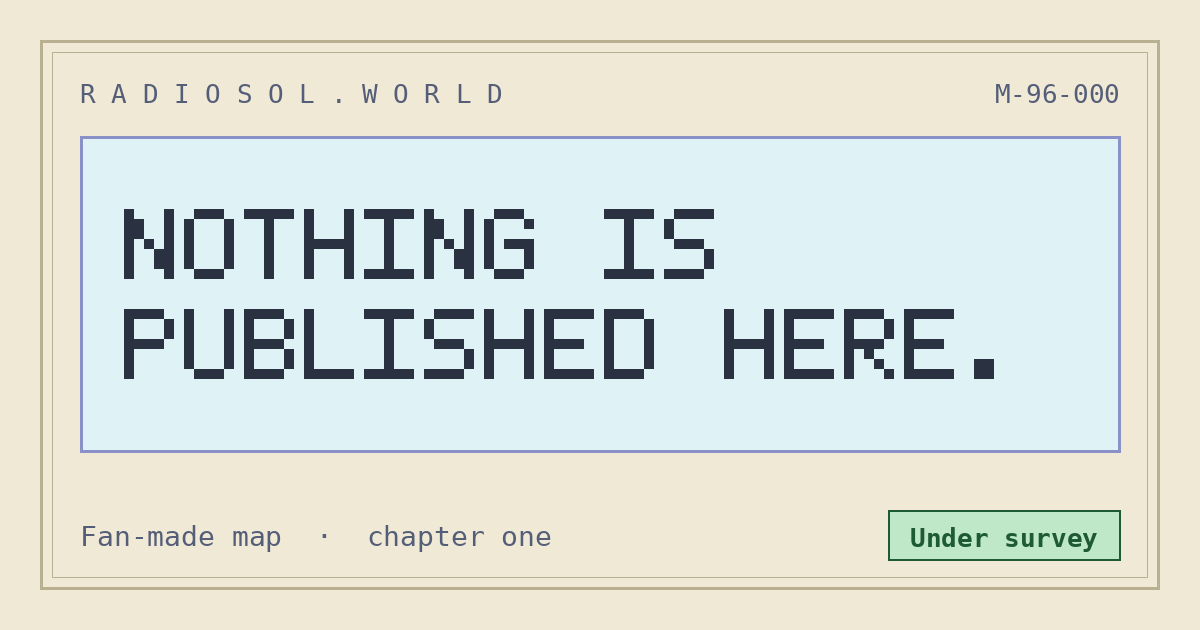
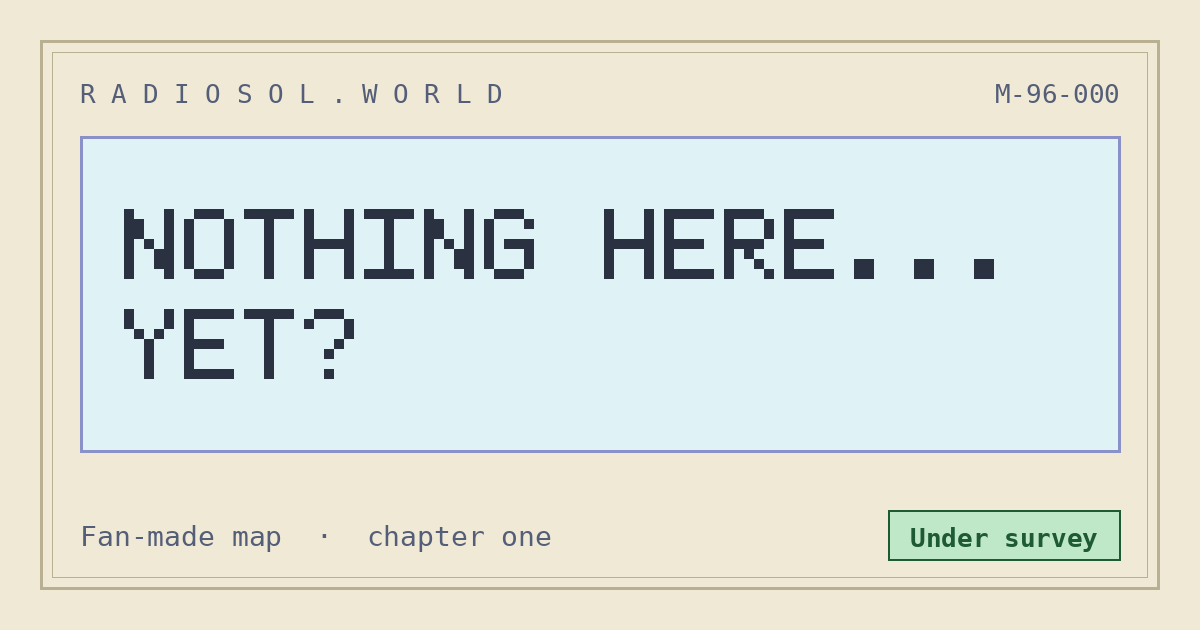
holding: adopt the design reference sizing and placement
Not a few values — a spacing system. The background now RESOLVES, falling
from periwinkle to near-white at the foot instead of holding one saturation,
which is most of why the reference reads as airy and ours read as a solid
block with a card stuck to it. The card gains the halo-ring-then-soft-drop
shadow in place of the hard offset that pinned it down like a sticker, and
main gets genuinely generous fluid padding.

Placement: the "remain calm" aside no longer floats up beside the headline
where it competed for the eye and its ragged left edge read as an accident.
It now sits baseline-aligned with the last bullet, as a marginal note on the
list, which is what it is. The list uses a flex column with gap so the final
item has no phantom padding to break that alignment.

Layout is breakpoint-free: flex 999 1 420px / 1 1 260px wrap on their own
when the bases stop fitting, replacing a 760px media query that was a guess
at where that happens.

The ticker goes fluid — nowrap plus a fixed 10.5px and .1em tracking ran it
past the card edge on a phone and clipped it mid-word.

og.png now echoes the page headline. It said "NOTHING IS PUBLISHED HERE."
while the page said "Nothing here... yet?", so the link preview promised a
different page from the one it opened. Added Y and ? to the 5x7 face.

Changed region(s): [[0.0925, 0.4825, 0.555, 0.6032], [0.4933, 0.3317, 0.8325, 0.4524], [0.5858, 0.4825, 0.8325, 0.6032]]

diff --git a/index.html b/index.html
@@ -49,13 +49,19 @@
   --frame:#8A91C9; --rule:#B9B092;
   --warn:#E06A52; --mint:#BFE8C8; --mint-ink:#1E5A34;
   --band-bg:#241F14; --band-ink:#E8E3D6;
+  --mist:#EEF2F6;                            /* the gradient's near-white foot */
 }
 *{box-sizing:border-box}
+/* The gradient RESOLVES rather than sitting at one saturation. Ours held
+   periwinkle the whole way down, which made the page feel like a solid block
+   with a card stuck on it; falling to near-white at the foot is what makes
+   the card read as floating, and it is most of the difference the designer's
+   version has over ours. */
 body{
   margin:0; min-height:100dvh; display:flex; flex-direction:column;
   overflow-x:hidden;        /* the eyes are position:fixed off both margins */
-  background:linear-gradient(176deg, var(--sky2), var(--sky) 62%);
-  font:400 14px/1.6 var(--font-ui); color:var(--ink);
+  background:linear-gradient(180deg, var(--sky) 0%, var(--sky2) 45%, var(--mist) 100%);
+  font:400 15px/1.6 var(--font-ui); color:var(--ink);
 }
 /* BANNER: stays paper, static, undamaged. The plain-language rule outranks
    the joke — someone who has never seen the game must read this as a real
@@ -75,12 +81,17 @@ body{
    mid-sentence. minmax(0,1fr) makes the track the space actually available —
    the 0 floor is what lets it shrink below min-content. */
 main{flex:1; display:grid; grid-template-columns:minmax(0,1fr);
-     place-items:center; padding:30px 16px 36px}
+     place-items:center; padding:clamp(18px,5vw,56px) clamp(14px,4vw,48px)}
 
+/* The halo-ring-then-soft-drop idiom, taken from the design reference. The
+   hard offset shadow we had pinned the card to the page like a sticker; a
+   6px ring of the gradient's own foot colour, hairlined, then a wide diffuse
+   drop, lifts it instead. Same trick, opposite read. */
 .notice{
-  width:min(1000px,100%); background:var(--paper);
+  width:min(1080px,100%); background:var(--paper);
   border:2px solid var(--frame); padding:12px;
-  box-shadow:0 2px 0 var(--frame), 9px 11px 0 rgba(42,49,64,.13);
+  box-shadow:0 0 0 6px var(--mist), 0 0 0 7px var(--frame),
+             0 26px 70px rgba(42,49,64,.26);
 }
 /* marching dots. Padding goes fluid so a phone spends its width on the words
    rather than on four nested frames: 26px of inner padding inside 12px of
@@ -99,37 +110,52 @@ main{flex:1; display:grid; grid-template-columns:minmax(0,1fr);
    unbreakable run keeps the track from ever shrinking — the 1fr lies. The
    breakpoint below only swaps the column count; this is what lets a column
    actually narrow. */
-.cols{display:grid; grid-template-columns:1.5fr 1fr; gap:22px}
-.cols > *{min-width:0}
-@media (max-width:760px){ .cols{grid-template-columns:1fr} }
-
+/* Breakpoint-free, from the reference. While both bases fit on one line the
+   enormous grow factor hands the body nearly all the slack; the moment they
+   cannot fit, they wrap to full width on their own. The 760px media query
+   this replaces was a guess at where that happens — flex-basis measures it.
+   min-width:0 is still required: a flex child's automatic minimum size is
+   its min-content, which is what let the page scroll sideways before. */
+.cols{display:flex; flex-wrap:wrap; gap:13px}
 .body{
+  flex:999 1 420px; min-width:0;
   background:var(--panel); border:1px solid var(--frame);
-  padding:clamp(20px,5vw,30px) clamp(17px,5vw,32px);
+  padding:clamp(20px,4vw,30px) clamp(18px,4vw,34px);
 }
 h1{
-  margin:0 0 22px; letter-spacing:.02em; color:var(--ink);
-  font:400 clamp(21px,6.2vw,27px)/1.3 var(--font-px);
+  margin:0 0 20px; letter-spacing:.02em; color:var(--ink);
+  font:400 clamp(24px,6.4vw,36px)/1.18 var(--font-px); text-wrap:balance;
 }
 p{margin:0 0 15px; line-height:1.72}
 .body p{max-width:60ch}
+/* The aside sits on the LAST LINE of the list, not floated up beside the
+   headline. Floated, it competed with the h1 for the eye and the ragged left
+   edge it produced read as an accident; baseline-aligned with the final
+   bullet it reads as a marginal note on the list, which is what it is. */
+.listrow{
+  display:flex; flex-wrap:wrap; justify-content:space-between;
+  align-items:flex-end; gap:16px 24px;
+}
 .calm{
-  float:right; margin:4px 0 14px 24px; max-width:170px; text-align:right;
-  color:var(--warn); font-size:12px; line-height:1.75;
+  margin:0; max-width:34ch; color:var(--warn);
+  font-size:13px; line-height:1.5;
 }
 .lbl{
   margin:26px 0 12px; font:400 10.5px var(--font-px); letter-spacing:.14em;
   text-transform:uppercase; color:var(--ink-dim);
 }
 /* the service-package list, inverted */
-ul{margin:0; padding:0; list-style:none}
-ul li{position:relative; padding:0 0 10px 22px}
+/* gap instead of per-item bottom padding, so the last bullet has no phantom
+   space under it — that trailing 10px is what would stop align-items:flex-end
+   from landing the aside on the final line. */
+ul{margin:0; padding:0; list-style:none; display:flex; flex-direction:column; gap:7px}
+ul li{position:relative; padding:0 0 0 22px}
 ul li::before{
-  content:""; position:absolute; left:2px; top:7px;
+  content:""; position:absolute; left:2px; top:8px;
   width:8px; height:8px; background:var(--ink-dim);
 }
 
-.side{display:flex; flex-direction:column; gap:13px}
+.side{flex:1 1 260px; min-width:0; display:flex; flex-direction:column; gap:10px}
 .sidehdr{
   background:var(--paper); border:1px solid var(--frame); padding:11px 13px;
   font:400 10.5px var(--font-px); letter-spacing:.14em; text-transform:uppercase;
@@ -155,10 +181,15 @@ ul li::before{
 }
 .sign:hover{filter:brightness(1.05)}
 
+/* Fluid, because nowrap + a fixed 10.5px meant the status line ran past the
+   card on a phone and got clipped mid-word. letter-spacing drops with it —
+   .1em of tracking is what pushed it over the edge at small widths. */
 .ticker{
   margin-top:22px; background:var(--band-bg); color:var(--band-ink);
-  padding:9px 12px; font:400 10.5px var(--font-px); letter-spacing:.1em;
-  display:flex; gap:12px; align-items:baseline; overflow:hidden; white-space:nowrap;
+  padding:9px 12px; letter-spacing:clamp(.04em,.6vw,.1em);
+  font:400 clamp(8.5px,2.4vw,10.5px) var(--font-px);
+  display:flex; gap:clamp(7px,2vw,12px); align-items:baseline;
+  overflow:hidden; white-space:nowrap;
 }
 .ticker .dash{flex:1; overflow:hidden; color:#6d6450}
 .fine{
@@ -254,8 +285,7 @@ main{position:relative; z-index:2}
 
     <div class="cols">
       <div class="body">
-        <p class="calm">remain calm —<br>this page records<br>nothing about you</p>
-        <h1>Nothing here&#8230;<br>yet?</h1>
+        <h1>Nothing here&#8230; yet?</h1>
         <p>This domain was registered by a player, for a fan-made map of
            chapter one. Nothing has been put up, and nothing will be without
            the RADIOSOL team's say-so.</p>
@@ -266,13 +296,18 @@ main{position:relative; z-index:2}
              script, no cookie, no beacon — and that is what it claims. The
              aside and the footer were already scoped this way; this bullet
              was the one over-reaching. -->
-        <p class="lbl">This page also includes:</p>
-        <ul>
-          <li>no ads</li>
-          <li>no analytics</li>
-          <li>nothing tracked</li>
-          <li>no record kept by this page</li>
-        </ul>
+        <div class="listrow">
+          <div>
+            <p class="lbl">This page also includes:</p>
+            <ul>
+              <li>no ads</li>
+              <li>no analytics</li>
+              <li>nothing tracked</li>
+              <li>no record kept by this page</li>
+            </ul>
+          </div>
+          <p class="calm">remain calm &#8212; this page<br>records nothing about you</p>
+        </div>
       </div>
 
       <div class="side">
